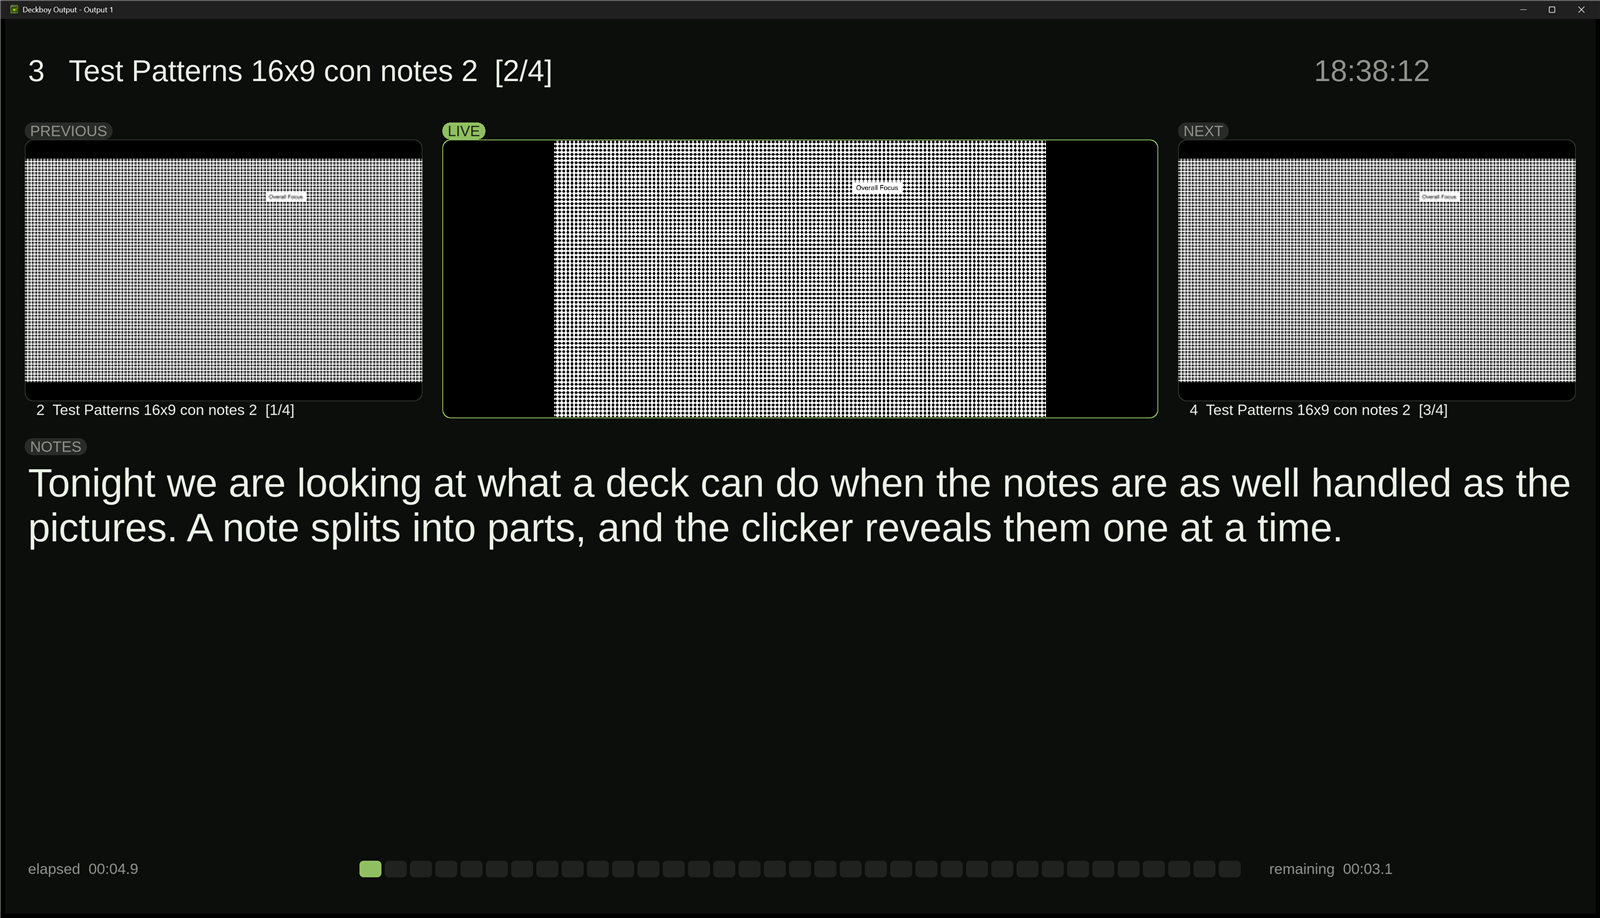
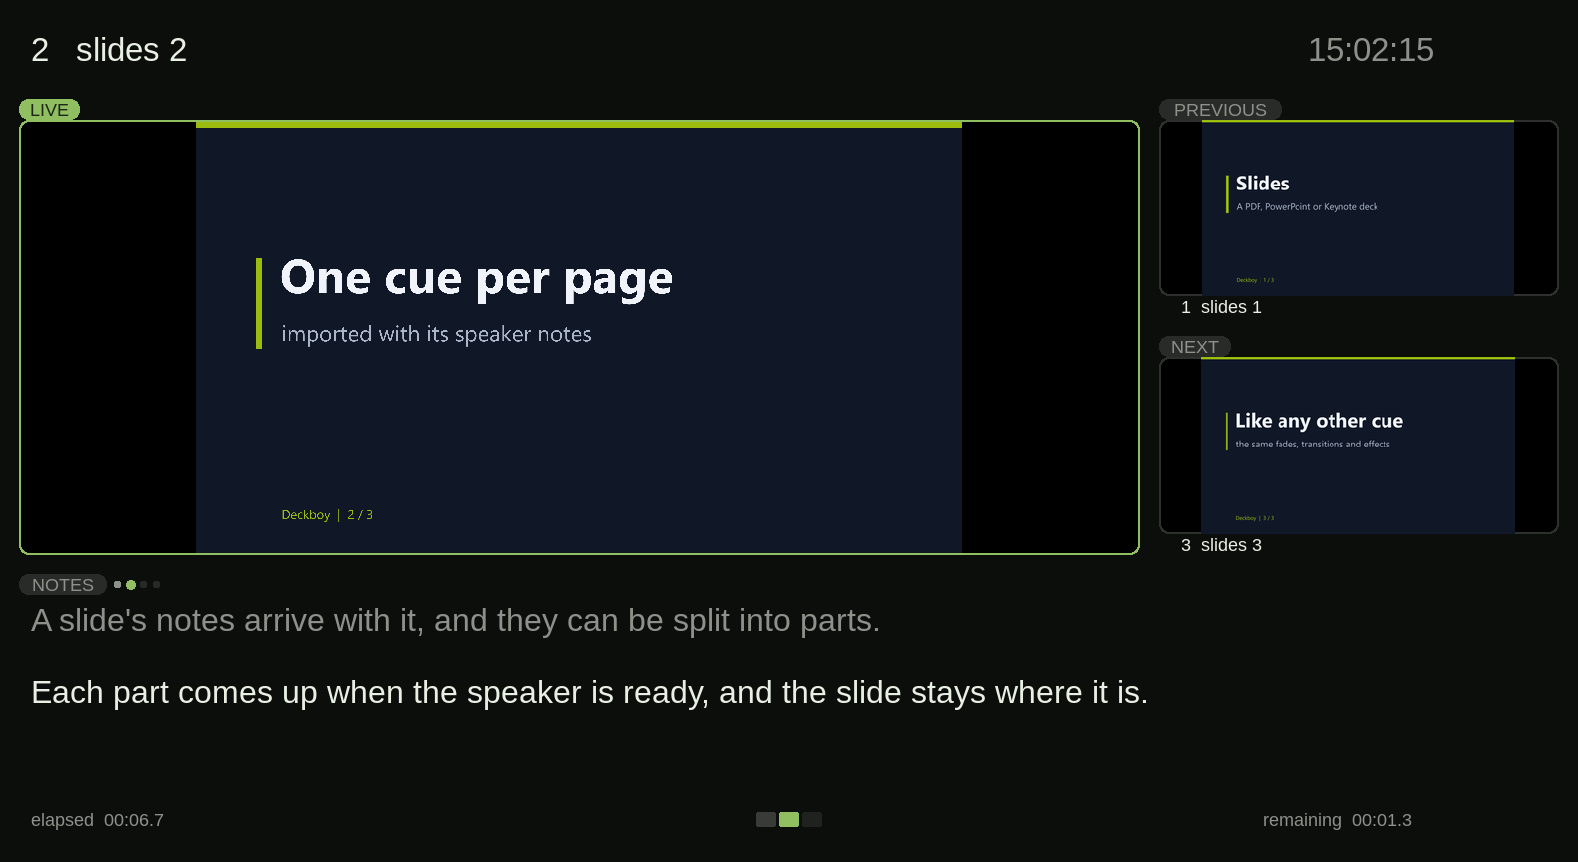
Presenter view: captions are sized for the label inset, so PREVIOUS shows whole; new presenter screenshot
Claude-Session: https://claude.ai/code/session_01WhparwmpuYpfbiouVFfKDE

diff --git a/README.md b/README.md
@@ -361,7 +361,7 @@ all one object with one set of controls, not fifty separate things to learn.
 - The clicker walks long notes a part at a time, at the speaker's pace — and
   Page Down and Page Up just work, because that is what every clicker sends
 
-![The presenter view: previous, live and next slides across the top, the speaker's notes below](art/readme/presenter.png)
+![The presenter view mid-build: the live slide large on the left, the previous and next slides stacked on the right, and the speaker's notes below, the part already spoken greyed out](art/readme/presenter.png)
 
 - **Teleprompter view**, also an output of its own: the script large, scrolling
   through a fixed reading line, mirrored for a beamsplitter, and driven from a
